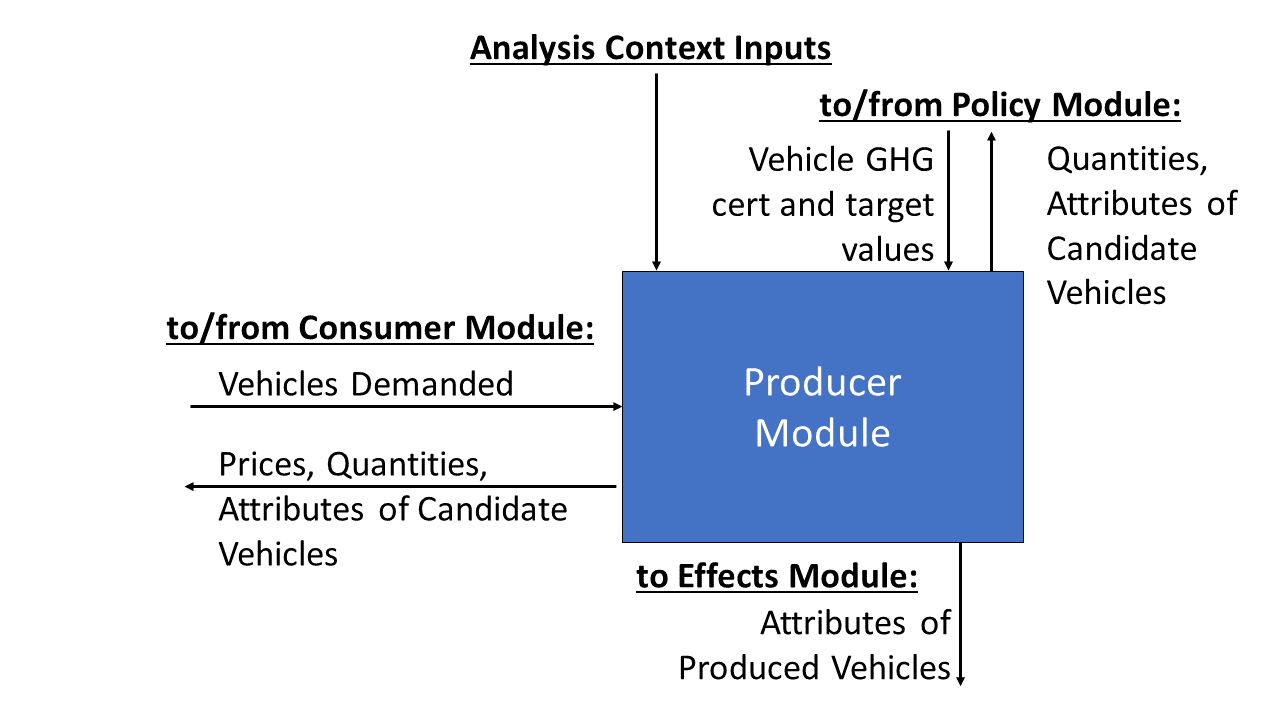
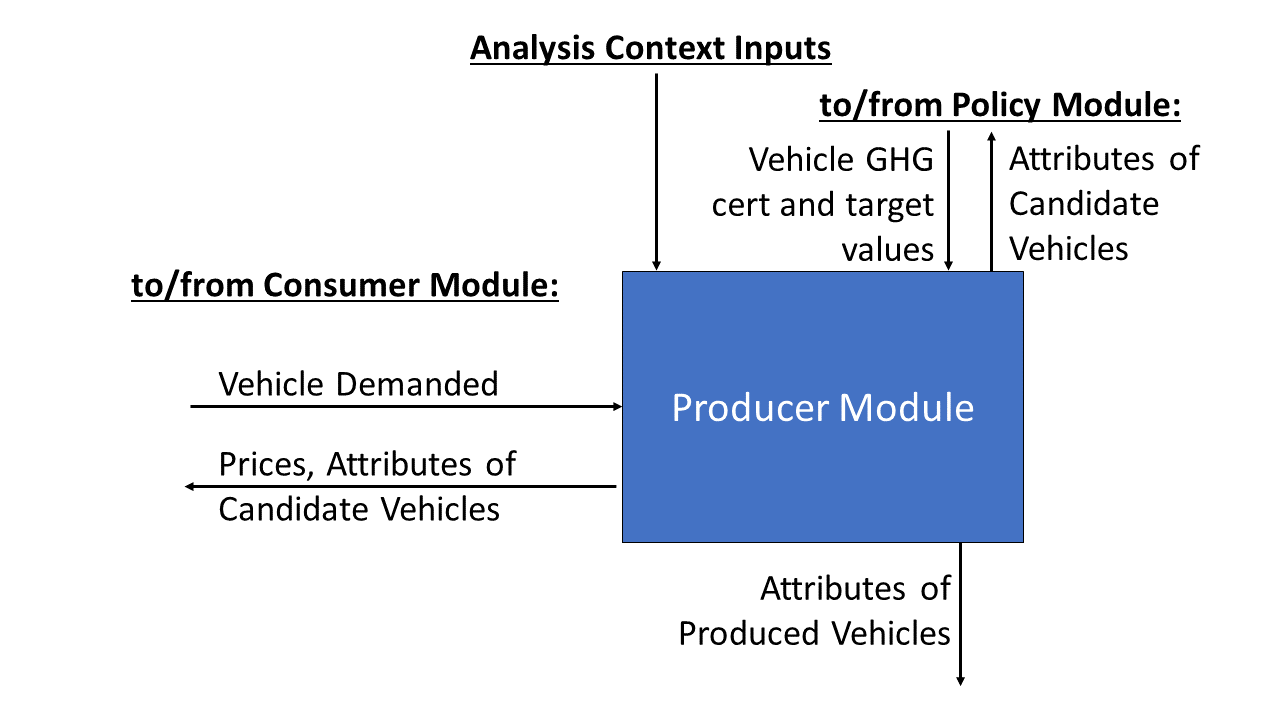
documentation updates

diff --git a/doc/source/4_architecture_and_algorithms.rst b/doc/source/4_architecture_and_algorithms.rst
@@ -5,7 +5,7 @@ Model Architecture and Algorithms
 =================================
 OMEGA is structured around four main modules which represent the distinct and interrelated actors and system elements that are most important for modeling how policy influences the environmental and other effects of the light duty sector. This chapter begins with a description of the simulation process, including the overall flow of an OMEGA run, and fundamental data structures and model inputs. That's followed by descriptions of the algorithms and internal logic of the `Policy Module`_, `Producer Module`_, and `Consumer Module`_, and then by a section on the approach for iteration and convergence between these three modules. Finally, the accounting method is described for the physical and monetary effects in the `Effects Module`_.
 
-Throughout this chapter, references to a demo analysis are included to provide additional specificity to the explanations in the main text. These examples, highlighted in shaded boxes, are also included with the model code. Please refer to the Developer Guide for more information on how to view and rerun the demo analysis.
+Throughout this chapter, references to a demo analysis are included to provide additional specificity to the explanations in the main text. These examples, highlighted in shaded boxes, are also included with the model code. Please refer to the :ref:`developer_guide_label` for more information on how to view and rerun the demo analysis.
 
 Overall Simulation Process
 ^^^^^^^^^^^^^^^^^^^^^^^^^^
@@ -239,7 +239,7 @@ As shown in :numref:`mo_label_vehicles`, vehicles may be defined in part by manu
 
 Vehicle Simulation and Cost Inputs
 ------------------------------------------
-One of the most important sets of inputs to the Producer Module is the simulated vehicles file. It contains the vehicles parameters used by OMEGA to generate all possible vehicle technology (and cost) options available to the producers – these production options represent distinct points in what might be considered a point 'cloud'. The use of these vehicle clouds by OMEGA is described in 3.3.4.
+One of the most important sets of inputs to the Producer Module is the simulated vehicles file. It contains the vehicles parameters used by OMEGA to generate all possible vehicle technology (and cost) options available to the producers – these production options represent distinct points in what might be considered a point 'cloud'. The use of these vehicle clouds by OMEGA is described in `veh clouds section`_.
 
 The simulated vehicle file contains the various vehicles of different core attributes (such as vehicle size, weight, powertrain, etc), the CO2-reducing technologies that are applied to each, and their predicted energy consumption, CO2 performance, and cost. While not required by all users, EPA uses its own simulation tool (ALPHA) to predict the energy consumption and CO2 emissions for each vehicle and technology combination. For the demo, these vehicle and technology options (and associated CO2 performance) are consolidated into the simulated_vehicles.csv file.
 The simulated vehicles csv file contains the following fields for use in the Producer Module:
@@ -253,6 +253,7 @@ The simulated vehicles csv file contains the following fields for use in the Pro
 **Significance of the cost curve class:**
 Each cost curve class includes multiple vehicles and represents the design space for all vehicle options in each class. In the demo, EPA grouped multiple vehicles within a single cost curve class to reduce the number of simulations required to represent the design space and to make the producer decision (manageable). OMEGA producer decisions are made based on discrete vehicle options within each vehicle cost curve class. For possible future consideration, EPA recommends the generation of RSEs (response surface equations) to derive particular costs cloud unique to each vehicle. This would allow for more unique cost and vehicle clouds without excessive simulation calculation burden.
 
+.. _veh clouds section:
 
 Vehicle Clouds, Frontiers, and Aggregation
 ------------------------------------------
@@ -286,7 +287,7 @@ Consumer Module
 ^^^^^^^^^^^^^^^
 The Consumer Module is a significant addition to OMEGA. With the ongoing evolutions in the light-duty vehicle market, including major growth in technologies and services, the need for an endogenous consumer response is clear. The Consumer Module is structured to project how consumers of light-duty vehicles would respond to policy-driven changes in new vehicle prices, fuel operating costs, trip fees for ride hailing services, and other consumer-facing elements. The module is set up to allow the inputs to affect total new vehicle sales (both in number and proportion of sales attributes to different market classes), total vehicle stock (including how the used vehicle market responds), and total vehicle use (the VMT of the stock of vehicles).
 
-An important consideration with the addition of the Consumer Module is ensuring consistency between the set of vehicles and their attributes that the Producer Module supplies and the set of vehicles adn their attributes that the Consumer Module demands. In order to estimate the set of new vehicles that provide this equilibrium, the Consumer and Producer modules iterate until convergence is achieved - where the set of vehicles, including their prices adn attributes, that satisfy producers is the same est of vehicles that satisfy consumers.
+An important consideration with the addition of the Consumer Module is ensuring consistency between the set of vehicles and their attributes that the Producer Module supplies and the set of vehicles and their attributes that the Consumer Module demands. In order to estimate the set of new vehicles that provide this equilibrium, the Consumer and Producer modules iterate until convergence is achieved - where the set of vehicles, including their prices and attributes, that satisfy producers is the same est of vehicles that satisfy consumers.
 
 Consumer Module Overview
 ------------------------
@@ -332,13 +333,13 @@ Each of these five elements represents a user-definable submodule within the Con
         Used vehicle reregistration, reregistration_fixed_by_age.py
         New and used vehicle use, annual_vmt_fixed_by_age.py
 
-The Consumer Module works in two phases: first, an iterative new vehicle phase, followed by a non-iterative stock and use phase. During the first phase, the Consumer Module and Producer Module iterate to achieve convergence on the estimates of new vehicles produced and demanded that meet the standards set in the Policy Module. The Producer Module sends a set of candidate vehicles, including their prices and attributes, to the Consumer Module to consider. The Consumer Module uses that set of candidate vehicles to estimate total new vehicles demanded and the shares of those new vehicles in the specified market classes, which are passed back to the Producer Module. If the estimates do not converge, a new set of candidate vehicles is sent to teh Consumer Module for consideration. Once convergence between the Producer and Consumer Module is achieved, the set of candidate vehicles are no longer considered candidates for consideration, but are the estimated new vehicle fleet, and the Consumer Module enters the second phase. In this phase, total vehicle stock (new and used vehicles and their attributes) and use (VMT) are estimated.
+The Consumer Module works in two phases: first, an iterative new vehicle phase, followed by a non-iterative stock and use phase. During the first phase, the Consumer Module and Producer Module iterate to achieve convergence on the estimates of new vehicles produced and demanded that meet the standards set in the Policy Module. The Producer Module sends a set of candidate vehicles, including their prices and attributes, to the Consumer Module to consider. The Consumer Module uses that set of candidate vehicles to estimate total new vehicles demanded and the shares of those new vehicles in the specified market classes, which are passed back to the Producer Module. If the estimates do not converge, a new set of candidate vehicles is sent to the Consumer Module for consideration. Once convergence between the Producer and Consumer Module is achieved, the set of candidate vehicles are no longer considered candidates for consideration, but are the estimated new vehicle fleet, and the Consumer Module enters the second phase. In this phase, total vehicle stock (new and used vehicles and their attributes) and use (VMT) are estimated.
 
 **Inputs to the Consumer Module**
-In general, the Consumer Module uses exogenous inputs from the analysis context, and endogenous inputs from the Producer Module. The exogenous inputs may include data such as fuel prices, existing vehicle stock, and specific modeling parameters such as those used in estimation of vehicle ownership and use decisions as a function of policies being analyzed. The analysis context must also contain the inputs required to define projections of vehicle ownership and use in the absence of any policy alternatives being analyzed. These projections might be provided directly as inputs to the Consumer Module, such as projections of vehicle ownership from the Annual Energy Outlook (AEO), or generated within the Consumer Module based on exogenous inputs, including future demographic or macroeconomic trends. Endogenous inputs are factors determined within the model and passed to the Consumer Module from the Producer Module. They may include vehicle prices and other relevant vehicle attributes, such as fuel consumption rate. Because the Consumer Module’s internal representation of consumer decisions can be defined by the user, the specific exogenous and endogenous inputs required will depend on the models, methods, and assumptions specified by the user. The vehicle attributes needed as inputs to the Consumer Module are determined by the methods used to estimate new vehicle sales, the market shares of vehicles demanded, used vehicle reregistration, and new and used vehicle use. For example, vehicle attributes used to define market classes must be included as inputs from the Producer Module. As an additional example, if the user defines vehicle sales responses to differ based on consumer income, the user must ensure that income is included in the analysis context inputs.
+In general, the Consumer Module uses exogenous inputs from the analysis context, and endogenous inputs from the Producer Module. The exogenous inputs may include data such as fuel prices, existing vehicle stock, and specific modeling parameters, for example, the parameters used in estimations of vehicle ownership and use decisions. The analysis context must also contain the inputs required to define projections of vehicle ownership and use in the absence of any policy alternatives being analyzed. These projections might be provided directly as inputs to the Consumer Module, such as projections of vehicle ownership from the Annual Energy Outlook (AEO), or generated within the Consumer Module based on exogenous inputs, including future demographic or macroeconomic trends. Endogenous inputs are factors determined within the model and passed to the Consumer Module from the Producer Module. They may include vehicle prices and other relevant vehicle attributes, such as fuel consumption rate. Because the Consumer Module’s internal representation of consumer decisions can be defined by the user, the specific exogenous and endogenous inputs required will depend on the models, methods, and assumptions specified by the user. The vehicle attributes needed as inputs to the Consumer Module are determined by the methods used to estimate new vehicle sales, the market shares of vehicles demanded, used vehicle reregistration, and new and used vehicle use. For example, vehicle attributes used to define market classes must be included as inputs from the Producer Module. As an additional example, if the user defines vehicle sales responses to differ based on consumer income, the user must ensure that income is included in the analysis context inputs.
 
 **Outputs of the Consumer Module**
-The Consumer Module produces two categories of outputs: sales estimates during the iterative Phase 1, and stock and use estimates during the non-iterative Phase 2. During the iterative phase, outputs of the Consumer Module, including new vehicle sales and responsive market shares (explained in the following section), are fed back to the Producer Module for iteration and convergence. See section 3.4.3 for more information on what happens during Phase 1, and Section 3.5 for more detailed information on how OMEGA estimates iteration and convergence between the Producer and Consumer modules. Once that convergence is achieved, the Consumer Module estimates the outputs of the stock of vehicles, including both new and reregistered used vehicles, and VMT, which are used by the Effects Module.
+The Consumer Module produces two categories of outputs: sales estimates during the iterative Phase 1, and stock and use estimates during the non-iterative Phase 2. During the iterative phase, outputs of the Consumer Module, including new vehicle sales and responsive market shares (explained in the following section), are fed back to the Producer Module for iteration and convergence. See `phase1`_ for more information on what happens during Phase 1, and `Iteration and Convergence`_ for more detailed information on how OMEGA estimates iteration and convergence between the Producer and Consumer modules. Once that convergence is achieved, the Consumer Module estimates the outputs of the stock of vehicles, including both new and reregistered used vehicles, and VMT, which are used by the Effects Module.
 
 Market Class Definitions
 ------------------------
@@ -352,11 +353,11 @@ Market classes can be defined using vehicle attributes and inputs from the analy
 
     The assumptions of independence in parent market class categories is consistent with the assumption of independence of irrelevant alternatives (IIA) commonly used in nested choice models, such as GCAM-USA.
 
-Before the Consumer Module can estimate sales and or shares responses, all vehicles must be categorized into their market classes. This categorization is defined as a series of nested market category levels. The user can define any number of market classes, or levels, as well as the hierarchy of the levels. In defining the hierarchy, it is important to note that OMEGA assumes that the sales share estimates within a parent category are independent of sales share estimates outside the parent category. This means that changing the available market classes outside the parent category will not change the sales share estimates within the parent category.
+Before the Consumer Module can estimate new vehicle sales or market shares responses, all vehicles must be categorized into their market classes. This categorization is defined as a series of nested market category levels. The user can define any number of market classes, or levels, as well as the hierarchy of the levels. In defining the hierarchy, it is important to note that OMEGA assumes that the sales share estimates within a parent category are independent of sales share estimates outside the parent category. This means that changing the available market classes outside the parent category will not change the sales share estimates within the parent category.
 
 .. admonition:: Demo example: Market class structure
 
-    :numref:`mo_label_mktree` below illustrates an example of a nested market class hierarchy using the demo analysis market classes as an example. Hauling/non-hauling market classes are the highest, parent, level. Vehicles are separated into the appropriate hauling and non-hauling class using the projection of hauling/non-hauling shares from analysis context inputs. Nested within the hauling and non-hauling categories, there are BEV/ICE market classes. The candidate vehicle inputs from the Producer Module, namely vehicle prices, are used to determine the share of vehicles in the BEV/ICE market classes, as described in the examples below. During the iterative first phase, if the share of BEVs that consumers will accept given the candidate vehicle attributes does not converge with the share that the Producer Module estimates, the iterative process continues. The demanded BEV share is passed back to the Producer Module, which will return a new set of candidate vehicles and their attributes, including prices. Given the updated candidate vehicle inputs, the Consumer Module will redistribute vehicles into the BEV and ICE classes, with the BEV/ICE share estimates in the hauling category being independent from those in the non-hauling category. This possible redistribution between market class categories is represented by the dashed lines between each set of BEV/ICE classes. Note that the dashed lines travel within the hauling class and within the non-hauling class, but do not travel across them.
+    :numref:`mo_label_mktree` below illustrates an example of a nested market class hierarchy using the demo analysis market classes as an example. Hauling/non-hauling market classes are the highest, parent, level. Vehicles are separated into the appropriate hauling and non-hauling class using thier attributes and the projection of hauling/non-hauling shares from analysis context inputs. Nested within the hauling and non-hauling categories, there are BEV/ICE market classes. The candidate vehicle inputs from the Producer Module, for example, vehicle prices, fuel cost and VMT, are used to determine the share of vehicles in the BEV/ICE market classes, as described in the examples below. During the iterative first phase, if the share of BEVs that consumers will accept given the candidate vehicle attributes does not converge with the share that the Producer Module estimates, the iterative process continues. The demanded BEV share is passed back to the Producer Module, which will return a new set of candidate vehicles and their attributes, including prices. Given the updated candidate vehicle inputs, the Consumer Module will redistribute vehicles into the BEV and ICE classes, with the BEV/ICE share estimates in the hauling category being independent from those in the non-hauling category. This possible redistribution between market class categories is represented by the dashed lines between each set of BEV/ICE classes. Note that the dashed lines travel within the hauling class and within the non-hauling class, but do not travel across them.
 
         :numref:`mo_label_mktree` Illustration of the Market Class Structure in the Demo Analysis.
 
@@ -371,16 +372,18 @@ Within a given analysis context, the shares of vehicles allocated to nonresponsi
 
 .. admonition:: Demo example: Nonresponsive and responsive market classes
 
-    Within the demo analysis, vehicles are separated into four market classes depending on whether they are categorized as hauling (primarily meant for transporting goods or towing, as a body-on-frame vehicle would be expected to do) or non-hauling (primarily meant for passenger transportation, as a unibody vehicle might do), and their fuel type (battery electric vehicle (BEV) or internal combustion engine vehicles (ICE)). The hauling/non-hauling market classes are defined as nonresponsive market class categories. The share of vehicles defined as hauling or non-hauling, regardless of the fuel type, depends on analysis context inputs, and is unaffected by model results. The BEV/ICE market classes are defined as responsive market class categories, The share of vehicles in that market class is estimated within the Consumer Module and is responsive to vehicle cost and fuel consumption rate of the set of candidate vehicles input from the Producer Module.
+    Within the demo analysis, vehicles are separated into four market classes depending on whether they are categorized as hauling (primarily meant for transporting goods or towing, as a body-on-frame vehicle would be expected to do) or non-hauling (primarily meant for passenger transportation, as a unibody vehicle might do), and their fuel type (battery electric vehicle (BEV) or internal combustion engine vehicles (ICE)). The hauling/non-hauling market classes are defined as nonresponsive market class categories. The share of vehicles defined as hauling or non-hauling, regardless of the fuel type, depends on analysis context inputs, and is unaffected by model results. The BEV/ICE market classes are defined as responsive market class categories, the share of vehicles in that market class is estimated within the Consumer Module and is responsive to vehicle cost and fuel consumption rate of the set of candidate vehicles input from the Producer Module.
+
+.. _phase1:
 
 Phase 1: New Vehicle Sales
 --------------------------
-During the iterative first phase of the Consumer Module, the Producer Module and Consumer Module converge on an estimate of total new vehicle sales, as well as the market shares and attributes of those new vehicles at the market class level. The iteration process is described more fully in the `Iteration and Convergence`_ section. It begins with the Producer Module providing a set of candidate vehicles that meet the policy targets as defined within the Policy Module while minimizing the producer's generalized costs. At this initial step, overall volumes are taken directly from the analysis context projections, along with sales shares projection of nonresponsive market class categories. If the sales and market shares results estimated within the Consumer Modules are not within a given threshold of the estimates from the Producer Module, iteration between the modules occurs. The process entails the Producer Module offering successive sets of candidate vehicles and their attributes which still achieve the policy targets until a there is set of candidate vehicles which results in agreement between the Producer Module and Consumer Module estimates of sales and market shares. Within this iterative first phase of the Consumer Module, there are two main determinations being made: the total sales volume consumers will accept, and the share of vehicles they demand from each defined market class. Much of the method and assumptions used to estimate sales and shares impacts can be defined by the user, including the method of estimating a change in sales volumes or responsive market shares, consumer responsiveness to price, and what is included in the price consumers take into account.
+During the iterative first phase of the Consumer Module, the Producer Module and Consumer Module converge on an estimate of total new vehicle sales, as well as the market shares and attributes of those new vehicles at the market class level. The iteration process is described more fully in the `Iteration and Convergence`_ section. It begins with the Producer Module providing a set of candidate vehicles that meet the policy targets as defined within the Policy Module while minimizing the producer's generalized costs. At this initial step, overall volumes are taken directly from the analysis context projections, along with sales shares projection of nonresponsive market class categories. If the sales and market shares results estimated within the Consumer Modules are not within a given threshold of the estimates from the Producer Module, iteration between the modules occurs. The process entails the Producer Module offering successive sets of candidate vehicles and their attributes, including prices, which still achieve the policy targets until a there is set of candidate vehicles which results in agreement between the Producer Module and Consumer Module estimates of sales and market shares. On the Produce Module side, the process also includes determining the level of cross-subsidization between vehicle classes, which is covered more fully in the Producer Module section. Within this iterative first phase of the Consumer Module, there are two main determinations being made: the total sales volume consumers will accept, and the share of vehicles they demand from each defined market class. Much of the method and assumptions used to estimate sales and shares impacts can be defined by the user, including the method of estimating a change in sales volumes or responsive market shares, consumer responsiveness to price, and what is included in the price consumers take into account.
 
 
 **Sales volumes**
 
-The Consumer Module estimates the total new vehicles sold at the aggregated market class level with the user-defined submodule for new vehicle sales. The estimate for the change in new vehicle sales starts with an assumption of sales volumes in the absence of policy (the "no-action alternative"). These estimates can be an endogenous input from the analysis context, or estimated within the Consumer Module. Sales volumes under a defined policy (an "action-alternative") can be responsive to policy if the estimation is defined as relying, at least in part, on inputs from the Producer Module, or may be unresponsive to policy if the estimation is defined to rely solely on inputs from the analysis context. In defining how the Consumer Module estimates sales volumes, the user must ensure consistency between the inputs available from both the Producer Module and the analysis context, as well as with the other user-defined submodules within the Consumer Module. For example, if a user defines sales volumes as responsive to a specific vehicle attribute, that attribute must be included in the set of candidate vehicles and their attributes input from the Producer Module.
+The Consumer Module estimates the total new vehicles sold at the aggregated market class level with the user-defined submodule for new vehicle sales. The estimate for the change in new vehicle sales starts with an assumption of sales volumes in the absence of policy (the "no-action alternative"). These estimates can be an endogenous input from the analysis context, or estimated within the Consumer Module. Sales volumes under a defined policy (an "action alternative") can be responsive to policy if the estimation is defined as relying, at least in part, on inputs from the Producer Module, or may be unresponsive to policy if the estimation is defined to rely solely on inputs from the analysis context. In defining how the Consumer Module estimates sales volumes, the user must ensure consistency between the inputs available from both the Producer Module and the analysis context, as well as with the other user-defined submodules within the Consumer Module. For example, if a user defines sales volumes as responsive to a specific vehicle attribute, that attribute must be included in the set of candidate vehicles and their attributes input from the Producer Module.
 
 .. admonition:: Demo example: New vehicle sales estimates
 
@@ -409,17 +412,17 @@ The Consumer Module estimates the total new vehicles sold at the aggregated mark
 
     At an aggregate level, the average expected change in the price of new vehicles is multiplied by the defined demand elasticity to get the estimated change in vehicles demanded. This change is added to the projected new vehicle sales under the no-action alternative to get the total new vehicle sales under the action alternative outlined in the Policy Module.
 
-If a user adopts the demo analysis method of estimating sales volumes using an elasticity of demand, they must define net vehicle price, *P*. This net price is estimated under the no-action and the action alternatives, then the no-action alternative net price is subtracted from the action alternative net price to get an estimated :math:`\Delta P` that can be used with the user-defined elasticity. The net price should include factors the user assumes consumers consider in their purchase decision. Some factors that might be included are the share of total costs the producers pass onto the consumers, and the amount of future fuel costs consumers consider in their purchase decision.
+If a user adopts the demo analysis method of estimating sales volumes using an elasticity of demand, they must ensure that net vehicle price, *P*, is defined. This net price is estimated under the no-action and the action alternatives, then the no-action alternative net price is subtracted from the action alternative net price to get an estimated :math:`\Delta P` that can be used with the user-defined elasticity. The net price should include factors the user assumes consumers consider in their purchase decision. Some factors that might be included are the share of total costs the producers pass onto the consumers, and the amount of future fuel costs consumers consider in their purchase decision.
 
 .. admonition:: Demo example: Net price
 
-    In the demo analysis, the net price value in the sales volume estimate includes assumptions about the share of the total cost that producers pass onto the consumer and the amount of fuel consumption considered in the purchase decision. With respect to the share of total cost that producers pass onto consumers, the demo analysis assumes "full cost pass-through." This means that the full increase in cost that producers are subject to in achieving emission reduction targets is passed on to the consumers.
+    In the demo analysis, the net price value in the sales volume estimate includes assumptions about the share of the total cost that producers pass onto the consumer and the amount of fuel consumption considered in the purchase decision. With respect to the share of total cost that producers pass onto consumers, the demo analysis assumes "full cost pass-through." This means that the full increase in cost that producers are subject to in achieving emission reduction targets is passed on to the consumers. However, due to cross-subsidization, those costs may be spread across multiple market classes.
 
     The role of fuel consumption in the purchase decision is represented by the number of years of fuel consumption consumers consider when purchasing a new vehicle, and can range from 0 through the full lifetime of the vehicle. Using vehicle fuel consumption rates from the Producer Module, projections of fuel costs from the analysis context, the assumed user-defined VMT schedules as described below, and the assumed user-defined vehicle reregistration schedules, also described below, the Consumer Module estimates fuel costs for the set of vehicles under the no-action alternative as well as the action alternative under consideration. The user specified amount of fuel consumption is added to the action alternative set of candidate vehicle prices input from the Producer Module to get the set of net prices used in conjunction with the elasticity of demand to estimate the change in vehicle sales. For the amount of fuel consumption considered in the vehicle purchase decision, the demo analysis assumes 5 years.
 
 **Sales shares**
 
-The new vehicles sold are categorized into the user-defined market classes using estimates of sales shares. As mentioned above, those market classes can be nonresponsive or responsive to the policy being analyzed. Nonresponsive vehicle shares do not change with updated candidate vehicle sets or across policy alternatives. Though not responsive to endogenous inputs, the nonresponsive sales shares do not have to be constant. For example, they may be provided as a set of values for different points in time if the shares are expected to change exogenously over time. In addition, users can define sales shares to explicitly consider consumer heterogeneity by defining separate sales share estimates for different consumer groups. For example, sales share responses can differ between rural and urban consumers. If users identify heterogenous consumer groups with separate sales share responses, the analysis context must include the approproate inputs. For example, the proportion of the vehicle buying population in urban and rural areas for each year being analyzed within the model.
+The new vehicles sold are categorized into the user-defined market classes using estimates of sales shares. As mentioned above, those market classes can be nonresponsive or responsive to the policy being analyzed. Nonresponsive vehicle shares do not change with updated candidate vehicle sets or across policy alternatives. Though not responsive to endogenous inputs, the nonresponsive sales shares do not have to be constant. For example, they may be provided as a set of values for different points in time if the shares are expected to change exogenously over time. In addition, users can define sales shares to explicitly consider consumer heterogeneity by defining separate sales share estimates for different consumer groups. For example, sales share responses can differ between rural and urban consumers. If users identify heterogenous consumer groups with separate sales share responses, the analysis context must include the appropriate inputs. For example, the proportion of the vehicle buying population in urban and rural areas for each year being analyzed within the model.
 
 .. admonition:: Demo example: Nonresponsive market share estimates
 
@@ -429,7 +432,7 @@ For responsive market classes, users can define how market shares are responsive
 
 .. admonition:: Demo example: Responsive market share estimates
 
-    The demo analysis defines BEV and ICE market classes as responsive to the action alternatives being analyzed. The method used to estimate BEV shares is based on an S-shaped curve, estimated using the logit curve functional form, which has been used in peer reviewed economic literature as far back as 1957 to estimate technology adoption over time. Technology adoption in a logit curve is modeled as a period of low adoption, followed by a period of rapid adoption, and then a period where the rate of adoption slows. This can be thought of as analogous to the "early adopter", "mainstream adopter" and "laggard" framework in technology adoption literature. The logit curve equation in the demo analysis estimates the share of BEVs demanded by consumers, accounting for how quickly (or slowly) new technology is phased into public acceptance, as well as how responsive consumers are to the candidate vehicle prices input from the Producer Module. The basic logit equation is:
+    The demo analysis defines BEV and ICE market classes as responsive to the action alternatives being analyzed. The method used to estimate BEV shares is based on an S-shaped curve, estimated using the logit curve functional form. Logit curves have been used to estimate technology adoption over time in peer reviewed literature as far back as 1957, and are still widely used today, including in estimating adoption of electric vehicle technologies. Technology adoption in a logit curve is modeled as a period of low adoption, followed by a period of rapid adoption, and then a period where the rate of adoption slows. This can be thought of as analogous to the "early adopter", "mainstream adopter" and "laggard" framework in technology adoption literature. The logit curve equation in the demo analysis estimates the share of BEVs demanded by consumers, accounting for how quickly (or slowly) new technology is phased into public acceptance, as well as how responsive consumers are to the candidate vehicle prices input from the Producer Module. The basic logit equation is:
 
     .. Math::
        :label: logit_curve
@@ -443,22 +446,22 @@ For responsive market classes, users can define how market shares are responsive
     * :math:`p_{i}` is the generalized cost of each vehicle in market class *i*
     * :math:`\gamma` represents how sensitive the model is to price.
 
-If the user retains the logit curve estimation method of determining responsive BEV shares, the speed of acceptance, :math:`\alpha_{i}`, and price responsiveness, :math:`\gamma`, are factors the user can identify within the user-defined sales share submodule within the Consumer Module.
+If the user retains the demo analysis method of determining responsive BEV shares (using a logit curve as described above), the parameters representing the speed of acceptance, :math:`\alpha_{i}`, and price responsiveness, :math:`\gamma`, are factors the user can modify within the sales share submodule within the Consumer Module.
 
 In addition, the user must specify the price used in the logit equation. This price should include factors the user estimates are significant in determining relative market shares; cost factors can be monetary, such as capital and maintenance costs, or non-monetary, such as time. In addition, price estimation needs to be consistent with the speed of acceptance and price responsiveness parameters.
 
 .. admonition:: Demo example: BEV share parameters
 
-    The share weight and price sensitivity parameters in the demo analysis are currently informed by the inputs and assumptions used in the market share logit equation in the passenger transportation section of GCAM-USA. In addition, the price used in estimating BEV shares is the consumer generalized cost used by the GCAM-USA share weight estimation method. The consumer generalized cost estimation from GCAM includes capital costs (including candidate vehicle prices fed in from the Producer Module, and the cost of a home charger), fuel costs, maintenance costs, time cost of fueling, and parameter values for amortization period and discount rate. The amortization period and discount rate, like most of the user-defined submodule, can be defined by a user. In the demo analysis, they are set at 10 years and 10%. These parameters are used to estimate an annualized vehicle cost. That annualized cost is then divided by a user defined annual vehicle mileage to convert the value to dollars per mile. Note that fuel costs are also included in GCAM’s generalized costs as $/mi, and are not discounted.
+    The share weight and price sensitivity parameters in the demo analysis are currently informed by the inputs and assumptions used in the market share logit equation in the passenger transportation section of GCAM-USA (documentation and information on how to download GCAM-ISA can be found at https://jgcri.github.io/gcam-doc/gcam-usa.html ) In addition, the price used in estimating BEV shares is the consumer generalized cost used by the GCAM-USA share weight estimation method. The consumer generalized cost estimation from GCAM includes capital costs (including candidate vehicle prices fed in from the Producer Module, and the cost of a home charger), fuel costs, maintenance costs, time cost of fueling, and parameter values for amortization period and discount rate. The amortization period and discount rate, like most of the user-defined submodule, can be defined by a user. In the demo analysis, they are set at 10 years and 10%. These parameters are used to estimate an annualized vehicle cost. That annualized cost is then divided by a user defined annual vehicle mileage to convert the value to dollars per mile. Note that fuel costs are also included in GCAM’s generalized costs as $/mi, and are not discounted.
 
 
 Phase 2: Vehicle Stock and Use
 ------------------------------
-After convergence with respect to the sales and shares of new vehicles is achieved, the Consumer Module estimates total vehicle stock and use. To do so, it needs to keep internal consistency between the number of vehicles demanded and the use of those vehicles. The method of determining total vehicle stock and vehicle use are in user-defined submodules represented by the used vehicle market response element and the new and used vehicle use element in Figure 3.4. Vehicle stock is the total onroad registered fleet, including both new vehicles sales and the reregistered (used) vehicles. The data contained in the set of vehicle stock includes both vehicle count, as well as the attributes of the vehicles in the set, including model year and the vehicle features or attributes used to designate market classes. Vehicle use is the measure of how much each vehicle is driven in the analysis year, meaasured in vehicle miles traveled (VMT). VMT is measured at the vehicle level.
+After convergence with respect to the sales and shares of new vehicles is achieved, the Consumer Module estimates total vehicle stock and use. To do so, it needs to keep internal consistency between the number of vehicles demanded and the use of those vehicles. The method of determining total vehicle stock and vehicle use are in user-defined submodules represented by the used vehicle market response element and the new and used vehicle use element in :numref:`al_label_inside_cm`. Vehicle stock is the total onroad registered fleet, including both new vehicles sales and the reregistered (used) vehicles. The data contained in the set of vehicle stock includes both vehicle count, as well as the attributes of the vehicles in the set, including model year and the vehicle features or attributes used to designate market classes. Vehicle use is the measure of how much each vehicle is driven in the analysis year, meaasured in vehicle miles traveled (VMT). VMT is measured at the vehicle level.
 
 **Vehicle stock**
 
-:numref:`mo_label_stockflow` below steps through the flow of how total vehicle stock is estimated in OMEGA. To estimated vehicle stock, the model starts with a base year stock of vehicles, which is an inputs from the analysis context. The base year is the last year actual observations of vehicle stock are available. From there, the produced new vehicles for the analysis start year are estimated, as described in Section 3.4.3. The analysis start year is the first year in which modeling is performed and immediately follows the base year. These vehicles are added to teh set of reregistered base year stock. This new fleet of vehicles, reregistered base year stock plus modeled vehicles from the analysis start year, becomes the total analysis start year stock. For each subsequent modeled (analysis) year, the total used fleet is the set of base year stock remaining, plus the remaining set of modeled vehicles that were added to the fleet from the initial analysis year to the current modeled, analysis, year.
+:numref:`mo_label_stockflow` below steps through the flow of how total vehicle stock is estimated in OMEGA. To estimated vehicle stock, the model starts with a base year stock of vehicles, which is an inputs from the analysis context. The base year is the last year actual observations of vehicle stock are available. From there, the produced new vehicles for the analysis start year are estimated, as described in Section 3.4.3. The analysis start year is the first year in which modeling is performed and immediately follows the base year. These vehicles are added to the set of reregistered base year stock. This new fleet of vehicles, reregistered base year stock plus modeled vehicles from the analysis start year, becomes the total analysis start year stock. For each subsequent modeled (analysis) year, the total used fleet is the set of base year stock remaining, plus the remaining set of modeled vehicles that were added to the fleet from the initial analysis year to the current modeled, analysis, year.
 
 :numref:`mo_label_stockflow` Vehicle stock estimation flow diagram
 
@@ -466,16 +469,16 @@ After convergence with respect to the sales and shares of new vehicles is achiev
         .. figure:: _static/al_figures/stock_flow.png
             :align: center
 
-The method of estimating the reregistered fleet is in a user-defined used vehicle reregistration submodule. This method can make use of a static schedule, for example, where a vehicle's age is the only determinant of the proportion of vehicles remaining in the fleet over time, or depend on other vehicle attributes, like VMT. If users update the reregistration submodule to follow a different prescribed static rate, or to allow interdependencies between the rate of reregistration and other vehicle attributes, they need to retain consistency between the reregistration submodule and other submodule, for example the submodules estimating new vehicle sales and total VMT.
+The method of estimating the reregistered fleet is in a user-defined used vehicle reregistration submodule. This method can make use of a static schedule, for example, where a vehicle's age is the only determinant of the proportion of vehicles remaining in the fleet over time, or depend on other vehicle attributes, like VMT. If users update the reregistration submodule to follow a different prescribed static rate, or to allow interdependencies between the rate of reregistration and other vehicle attributes, they need to retain consistency between the reregistration submodule and other submodules, for example the submodules estimating new vehicle sales and total VMT.
 
 .. admonition:: Demo example: Vehicle stock estimates
 
-    In the demo analysis, the initial stock of vehicles comes from the analysis context, and reregistration is estimated using fixed schedules based on vehicle age. For every calendar year, a specified proportion of vehicles in each model year is assumed to be reregistered for use in the following calendar year. In this fixed schedule, the proportion of vehicles reentering the fleet for use falls as the vehicles age. For example, the proportion of reregistered five year old vehicles is larger than the proportion of reregistered fifteen year old vehicles.
+    In the demo analysis, the analysis start year stock of vehicles comes from the analysis context, and reregistration is estimated using fixed schedules based on vehicle age. For every calendar year, a specified proportion of vehicles in each model year is assumed to be reregistered for use in the following calendar year. In this fixed schedule, the proportion of vehicles reentering the fleet for use falls as the vehicles age. For example, the proportion of reregistered five year old vehicles is larger than the proportion of reregistered fifteen year old vehicles.
 
 
 **Vehicle use**
 
-Vehicle use is estimated as the vehicles miles traveled for each vehicle in the stock for the analysis year. This can be thought of as a measure of consumer demand for mobility. The method of estimating total VMT for the stock of vehicles is in a user-defined new and used vehicle use submodule. VMT can be estimated simply as a function of vehicle age, or may be a function of age, market class, analysis context inputs or more. Use may also include estimates of rebound driving. Rebound driving is estimated as the additional VMT consumers might drive as a function of reduced cost of driving.
+Vehicle use is estimated as the vehicles miles traveled for each vehicle in the stock for the analysis year. This can be thought of as a measure of consumer demand for mobility. The method of estimating total VMT for the stock of vehicles is in a user-definable new and used vehicle use submodule. VMT can be estimated simply as a function of vehicle age, or may be a function of age, market class, analysis context inputs or more. Use may also include estimates of rebound driving. Rebound driving is estimated as the additional VMT consumers might drive as a function of reduced cost of driving.
 
 .. admonition:: Demo example: VMT estimates
 
